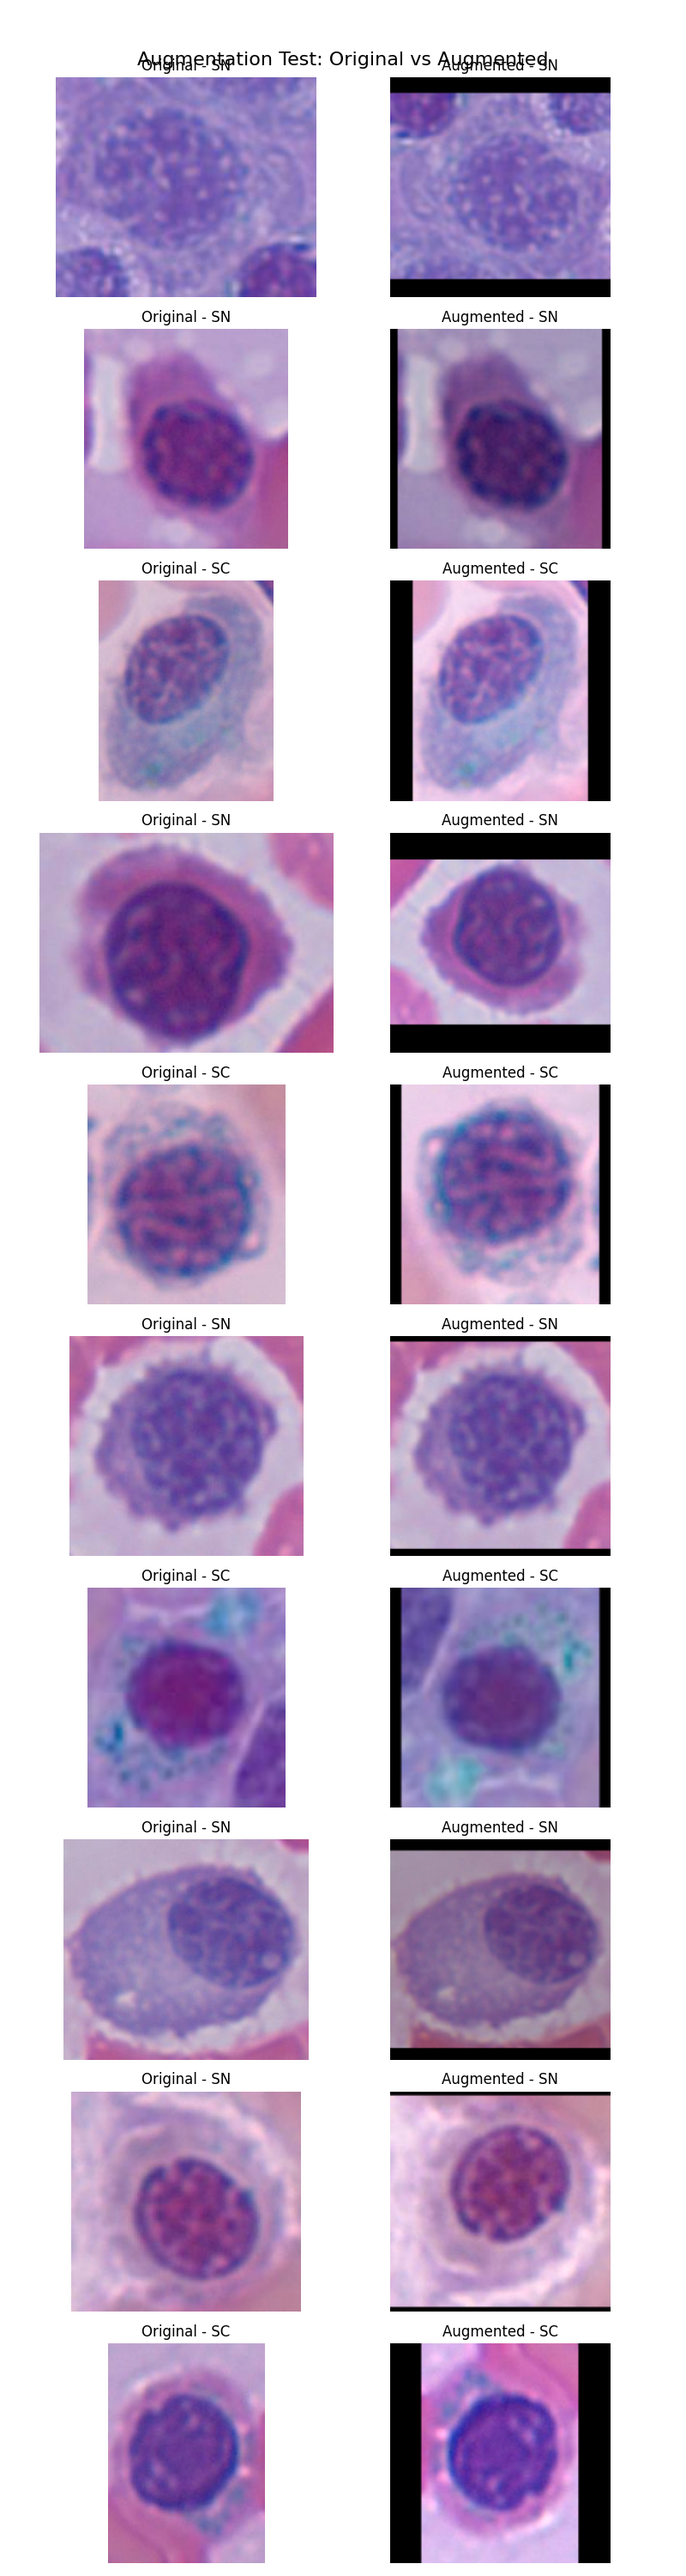
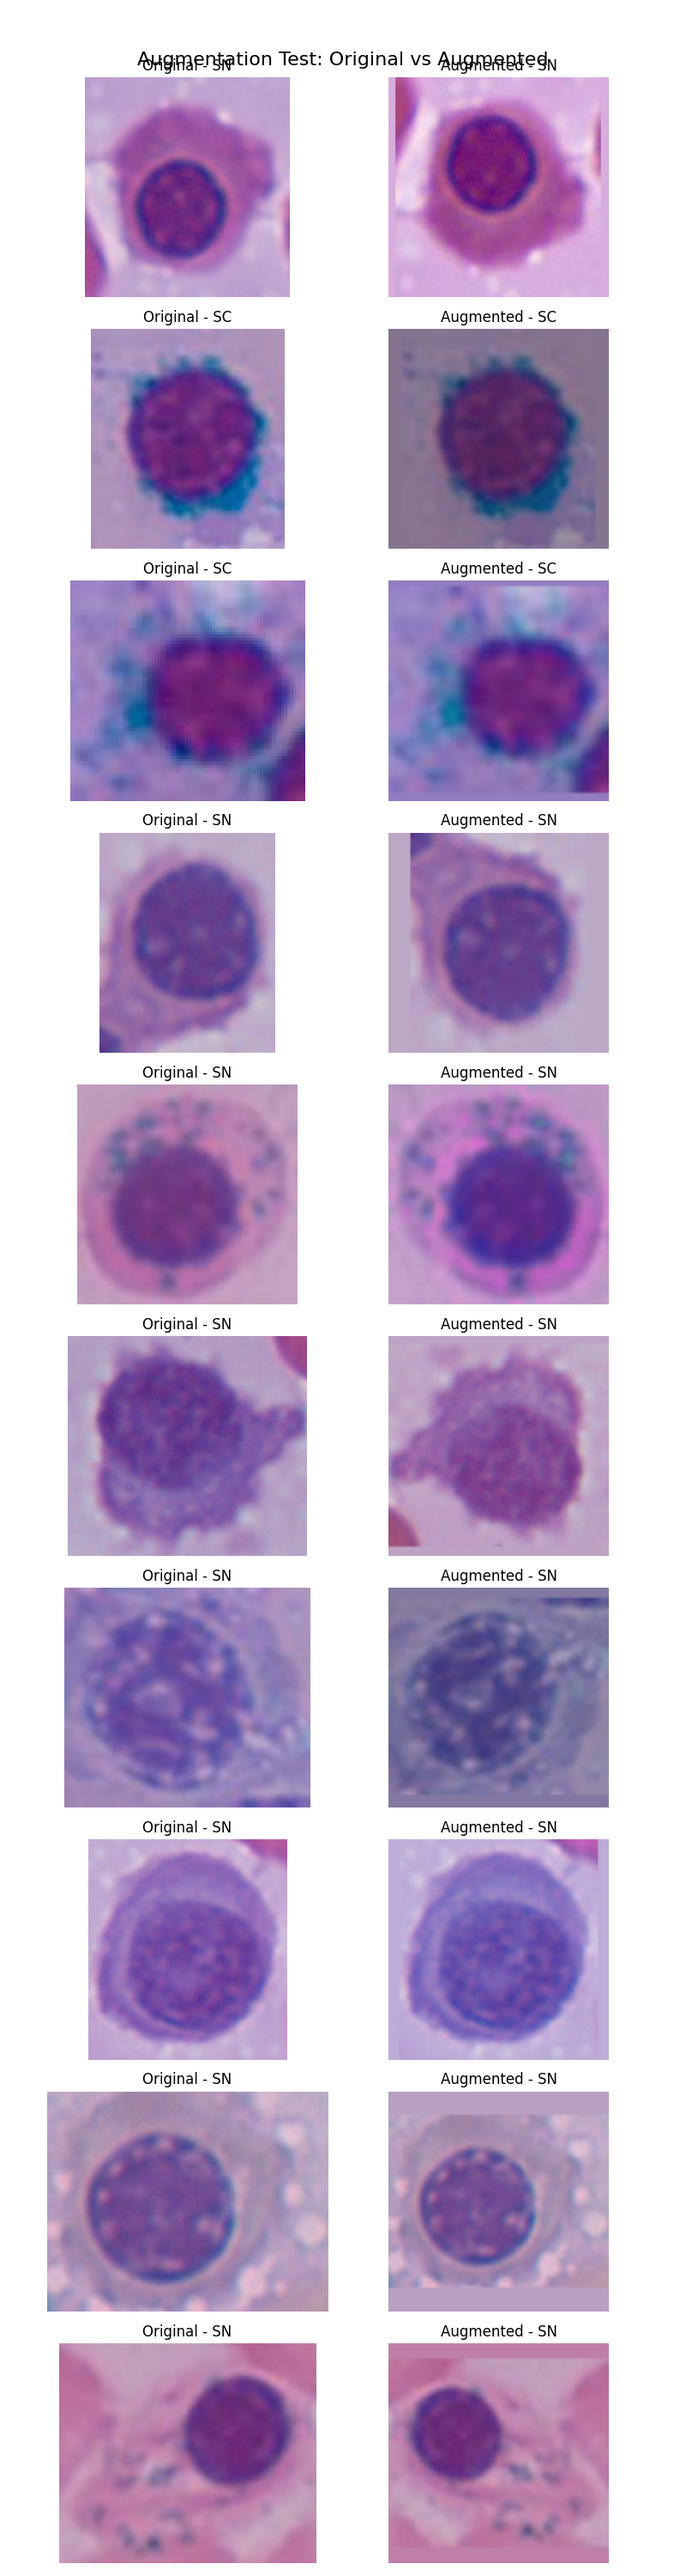
changmeent de la couleur du padding

diff --git a/classification/augmentation_test.py b/classification/augmentation_test.py
@@ -8,8 +8,7 @@ from torchvision.transforms import v2
 import torchvision.transforms.v2.functional as TF
 
 class PadToSquare:
-    def __init__(self, fill=0, padding_mode='constant'):
-        self.fill = fill
+    def __init__(self, padding_mode='constant'):
         self.padding_mode = padding_mode
 
     def __call__(self, img):
@@ -19,7 +18,28 @@ class PadToSquare:
         pad_right = max_size - w - pad_left
         pad_top = (max_size - h) // 2
         pad_bottom = max_size - h - pad_top
-        return TF.pad(img, padding=[pad_left, pad_top, pad_right, pad_bottom], fill=self.fill, padding_mode=self.padding_mode)
+        
+        fill_val = 0
+        if self.padding_mode == 'constant':
+            if isinstance(img, torch.Tensor):
+                # Extraire les bords (haut, bas, gauche, droite)
+                top = img[:, 0:1, :]
+                bottom = img[:, -1:, :]
+                left = img[:, :, 0:1]
+                right = img[:, :, -1:]
+                
+                # Concaténer tous les pixels des bords
+                borders = torch.cat([
+                    top.reshape(img.shape[0], -1),
+                    bottom.reshape(img.shape[0], -1),
+                    left.reshape(img.shape[0], -1),
+                    right.reshape(img.shape[0], -1)
+                ], dim=1)
+                
+                # Utiliser la médiane pour être robuste aux artefacts ou bruits sur les bords
+                fill_val = borders.median(dim=1).values.tolist()
+
+        return TF.pad(img, padding=[pad_left, pad_top, pad_right, pad_bottom], fill=fill_val, padding_mode=self.padding_mode)
 
 # Transformations from train.py
 train_transforms = v2.Compose([
@@ -32,7 +52,7 @@ train_transforms = v2.Compose([
         v2.ColorJitter(brightness=0.2, contrast=0.2, saturation=0.2, hue=0.05)
     ], p=0.8),
     v2.ToDtype(torch.float32, scale=True),
-    PadToSquare(fill=0, padding_mode='constant'),
+    PadToSquare(padding_mode='constant'),
     v2.Resize((224, 224)),
     v2.Normalize(mean=[0.485, 0.456, 0.406], std=[0.229, 0.224, 0.225]),
 ])
